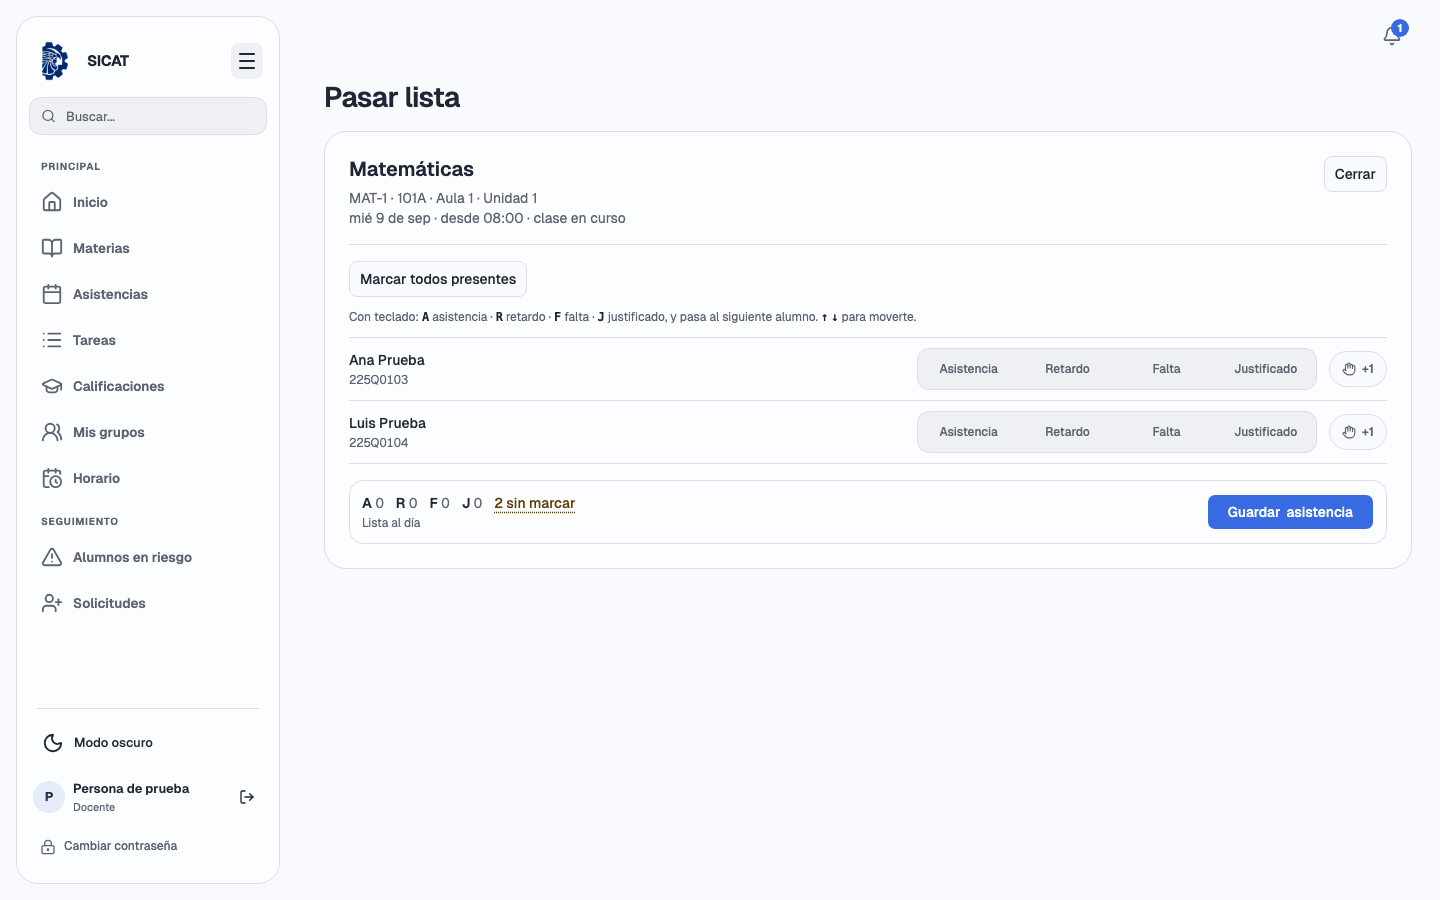
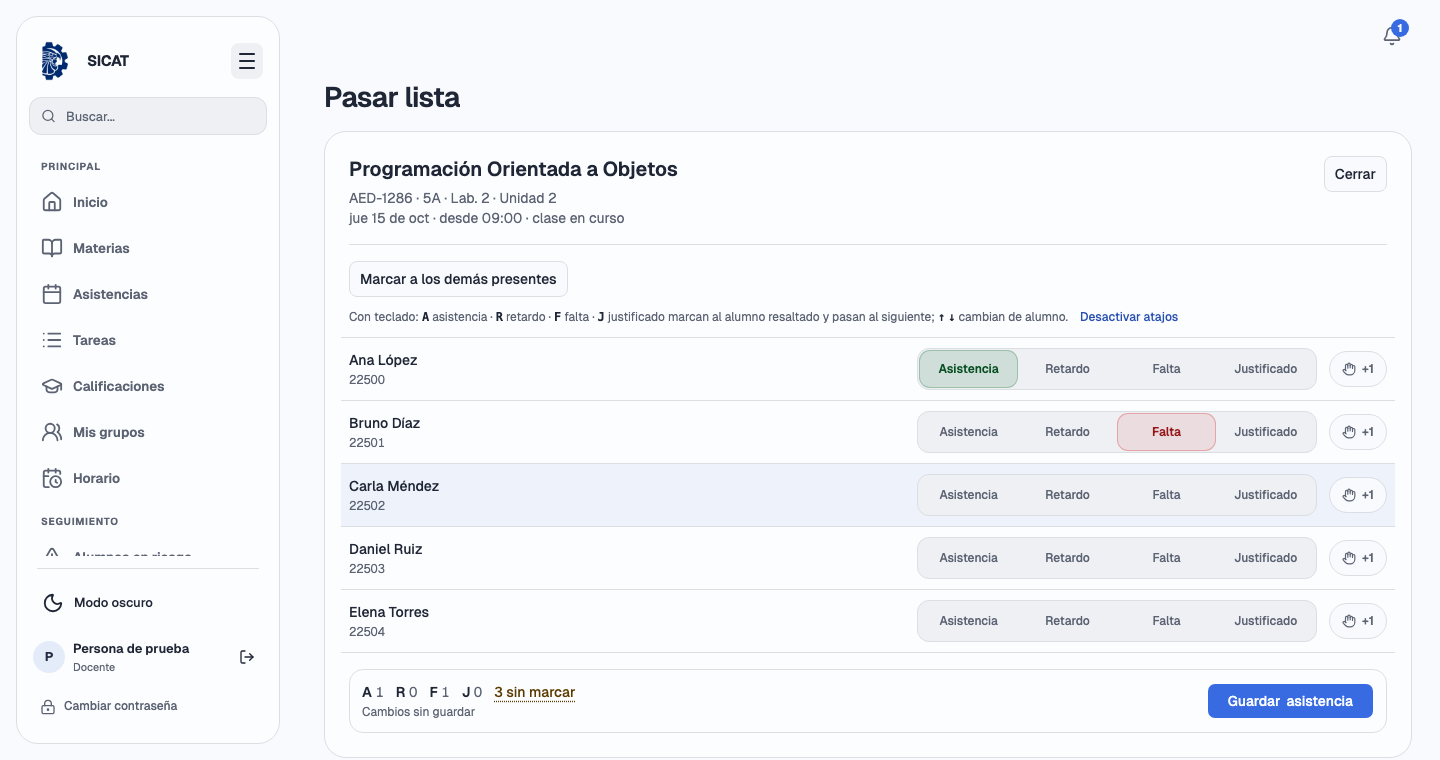
fix(pasar-lista): los atajos de teclado funcionan sin tener el foco en un botón
Los atajos A/R/F/J sólo respondían con el foco en un botón de estado: al abrir
la lista y teclear, o tras hacer clic en el nombre, no pasaba nada, y en Safari
(que no enfoca botones al hacer clic) nunca funcionaban.

Ahora siempre hay un alumno resaltado (al inicio, el primero sin marcar). Las
letras lo marcan y pasan al siguiente desde cualquier parte de la página, y
↑ ↓ cambian de alumno. Un clic en sus botones lo elige. No se disparan al
escribir en un campo ni con un diálogo o menú abierto, y se pueden desactivar
(WCAG 2.1.4); la preferencia se recuerda en el navegador.

diff --git a/frontend/src/pages/docente/components/AsistenciaSesionPanel.jsx b/frontend/src/pages/docente/components/AsistenciaSesionPanel.jsx
@@ -11,8 +11,20 @@ import { cn } from '@/lib/utils'
 import SexoBadge from '../../../components/SexoBadge'
 import { useAsistenciaStore } from '../../../store/asistenciaStore'
 
-// Atajos de teclado (A/R/F/J), activos sólo con el foco dentro de un alumno.
+// Atajos de teclado: actúan sobre el alumno resaltado, tenga o no el foco
+// (Safari no enfoca un botón al hacer clic). Se pueden apagar (WCAG 2.1.4).
 const TECLAS = { a: 'ASISTENCIA', r: 'RETARDO', f: 'FALTA', j: 'JUSTIFICADA' }
+const PREFERENCIA_ATAJOS = 'sicat:atajos-pase-lista'
+// Donde una letra es texto o pertenece a otra cosa, no es un atajo.
+const FUERA_DE_ATAJOS = 'input, textarea, select, [contenteditable="true"], [role="dialog"], [role="menu"]'
+
+function leerAtajos() {
+  try {
+    return localStorage.getItem(PREFERENCIA_ATAJOS) !== 'no'
+  } catch {
+    return true
+  }
+}
 
 const ESTADOS = [
   { valor: 'ASISTENCIA', etiqueta: 'Asistencia', letra: 'A', plural: ['asistencia', 'asistencias'], activo: 'bg-success/15 text-success-foreground ring-success/40' },
@@ -72,6 +84,9 @@ export default function AsistenciaSesionPanel({
   // Marcas que se intentaron guardar sin red y esperan en la cola del dispositivo.
   const [encolado, setEncolado] = useState(null)
   const filasRef = useRef([])
+  const [cursor, setCursor] = useState(null)
+  const [atajos, setAtajos] = useState(leerAtajos)
+  const teclaRef = useRef(null)
 
   const { sesion, alumnos, disponibles, registros, guardados, participacion, recuperado } = datos
 
@@ -218,25 +233,61 @@ export default function AsistenciaSesionPanel({
 
   const marcar = (alumnoId, estado) => actualizar((prev) => ({ registros: { ...prev.registros, [alumnoId]: estado } }))
 
-  const enfocarFila = (indice, columna = 0) => {
-    filasRef.current[indice]?.querySelectorAll('[data-estado]')[columna]?.focus()
+  // El alumno resaltado: el que se eligió, o el primero que falta marcar.
+  const actual = visibles.find((alumno) => alumno.alumnoId === cursor)
+    ?? visibles.find((alumno) => !registros[alumno.alumnoId])
+    ?? visibles[0]
+    ?? null
+
+  // Mueve el resaltado; si el foco ya estaba en la lista, lo lleva a la misma columna.
+  const moverA = (indice, columna, origen) => {
+    const destino = Math.max(0, Math.min(indice, visibles.length - 1))
+    const fila = filasRef.current[destino]
+    if (!visibles[destino]) return
+    setCursor(visibles[destino].alumnoId)
+    fila?.scrollIntoView({ block: 'nearest' })
+    if (origen?.closest?.('[data-lista-alumnos]')) fila?.querySelectorAll('[data-estado]')[columna]?.focus()
   }
 
-  const manejarTecla = (event, alumno, indice) => {
-    if (event.altKey || event.ctrlKey || event.metaKey) return
-    const estado = TECLAS[event.key.toLowerCase()]
-    if (estado) {
-      event.preventDefault()
-      marcar(alumno.alumnoId, estado)
-      enfocarFila(Math.min(indice + 1, visibles.length - 1), ESTADOS.findIndex((item) => item.valor === estado))
-      return
+  useEffect(() => {
+    teclaRef.current = (event) => {
+      if (event.defaultPrevented || event.altKey || event.ctrlKey || event.metaKey || !actual) return
+      const origen = event.target
+      if (origen.closest?.(FUERA_DE_ATAJOS) || document.querySelector('[aria-modal="true"]')) return
+      const indice = visibles.findIndex((alumno) => alumno.alumnoId === actual.alumnoId)
+      const estado = TECLAS[event.key.toLowerCase()]
+      if (estado) {
+        event.preventDefault()
+        marcar(actual.alumnoId, estado)
+        moverA(indice + 1, ESTADOS.findIndex((item) => item.valor === estado), origen)
+        return
+      }
+      // Las flechas sólo se toman en la lista o sin foco; en otro control conservan su uso.
+      const paso = { ArrowDown: 1, ArrowUp: -1 }[event.key]
+      if (paso && (origen === document.body || origen.closest?.('[data-lista-alumnos]'))) {
+        event.preventDefault()
+        const columna = Math.max(0, ESTADOS.findIndex((item) => item.valor === origen.dataset?.estado))
+        moverA(indice + paso, columna, origen)
+      }
     }
-    const paso = { ArrowDown: 1, ArrowUp: -1 }[event.key]
-    if (paso && event.target.dataset.estado) {
-      event.preventDefault()
-      const columna = ESTADOS.findIndex((item) => item.valor === event.target.dataset.estado)
-      enfocarFila(Math.max(0, Math.min(indice + paso, visibles.length - 1)), columna)
-    }
+  })
+
+  useEffect(() => {
+    if (!listo || !atajos) return undefined
+    const alTeclear = (event) => teclaRef.current?.(event)
+    document.addEventListener('keydown', alTeclear)
+    return () => document.removeEventListener('keydown', alTeclear)
+  }, [listo, atajos])
+
+  const alternarAtajos = () => {
+    setAtajos((activos) => {
+      try {
+        localStorage.setItem(PREFERENCIA_ATAJOS, activos ? 'no' : 'si')
+      } catch {
+        // Sin almacenamiento la preferencia dura lo que la pantalla.
+      }
+      return !activos
+    })
   }
 
   const marcarRestantesPresentes = () => actualizar((prev) => ({
@@ -472,9 +523,20 @@ export default function AsistenciaSesionPanel({
         )}
       </div>
 
-      <p className="mt-3 hidden text-xs text-muted-foreground [@media(pointer:fine)]:block">
-        Con teclado: <kbd className="font-semibold text-foreground">A</kbd> asistencia · <kbd className="font-semibold text-foreground">R</kbd> retardo · <kbd className="font-semibold text-foreground">F</kbd> falta · <kbd className="font-semibold text-foreground">J</kbd> justificado, y pasa al siguiente alumno. <kbd className="font-semibold text-foreground">↑</kbd> <kbd className="font-semibold text-foreground">↓</kbd> para moverte.
-      </p>
+      {/* Sólo con mouse o trackpad: en el teléfono no hay teclado físico que explicar. */}
+      <div className="mt-3 hidden flex-wrap items-center gap-x-3 gap-y-1 text-xs text-muted-foreground [@media(pointer:fine)]:flex">
+        {atajos ? (
+          <p>
+            Con teclado: <kbd className="font-semibold text-foreground">A</kbd> asistencia · <kbd className="font-semibold text-foreground">R</kbd> retardo · <kbd className="font-semibold text-foreground">F</kbd> falta · <kbd className="font-semibold text-foreground">J</kbd> justificado marcan al alumno resaltado y pasan al siguiente; <kbd className="font-semibold text-foreground">↑</kbd> <kbd className="font-semibold text-foreground">↓</kbd> cambian de alumno.
+          </p>
+        ) : (
+          <p>Atajos de teclado desactivados.</p>
+        )}
+        <button type="button" aria-pressed={atajos} onClick={alternarAtajos}
+          className="rounded-md font-medium text-primary-ink underline-offset-4 hover:underline focus-visible:outline-none focus-visible:ring-3 focus-visible:ring-ring/50">
+          {atajos ? 'Desactivar atajos' : 'Activar atajos'}
+        </button>
+      </div>
 
       {visibles.length === 0 ? (
         <p className="mt-4 rounded-[var(--radius-item)] border border-dashed border-border px-4 py-8 text-center text-sm text-muted-foreground">
@@ -483,12 +545,16 @@ export default function AsistenciaSesionPanel({
             : soloSinMarcar && !needle ? 'Ya marcaste a todos.' : 'Ningún alumno coincide con la búsqueda.'}
         </p>
       ) : (
-        <ul className="@container mt-3 divide-y divide-border border-y border-border">
+        <ul data-lista-alumnos className="@container -mx-2 mt-3 divide-y divide-border border-y border-border">
           {visibles.map((alumno, indice) => {
             const puntos = participacion[alumno.alumnoId] ?? 0
+            const resaltado = atajos && alumno.alumnoId === actual?.alumnoId
+            const elegir = () => setCursor(alumno.alumnoId)
             return (
               <li key={alumno.alumnoId} ref={(el) => { filasRef.current[indice] = el }}
-                className="grid items-center gap-x-3 gap-y-1.5 py-2.5 [grid-template-areas:'nombre_participa'_'estado_estado'] grid-cols-[minmax(0,1fr)_auto] @[40rem]:grid-cols-[minmax(0,1fr)_auto_auto] @[40rem]:[grid-template-areas:'nombre_estado_participa']">
+                aria-current={resaltado ? 'true' : undefined}
+                className={cn('grid scroll-mb-36 scroll-mt-4 items-center gap-x-3 gap-y-1.5 px-2 py-2.5 transition-colors duration-150', resaltado && '[@media(pointer:fine)]:bg-accent/60',
+                  "[grid-template-areas:'nombre_participa'_'estado_estado'] grid-cols-[minmax(0,1fr)_auto] @[40rem]:grid-cols-[minmax(0,1fr)_auto_auto] @[40rem]:[grid-template-areas:'nombre_estado_participa']")}>
                 <div className="min-w-0 [grid-area:nombre]">
                   <p className="flex items-start gap-2 text-sm font-medium text-foreground">
                     <SexoBadge sexo={alumno.sexo} />
@@ -506,9 +572,9 @@ export default function AsistenciaSesionPanel({
                     const marcado = registros[alumno.alumnoId] === valor
                     return (
                       <button key={valor} type="button" aria-pressed={marcado} data-estado={valor}
-                        aria-keyshortcuts={valor === 'ASISTENCIA' ? 'A' : valor === 'RETARDO' ? 'R' : valor === 'FALTA' ? 'F' : 'J'}
-                        onClick={() => setEstado(alumno.alumnoId, valor)}
-                        onKeyDown={(event) => manejarTecla(event, alumno, indice)}
+                        aria-keyshortcuts={atajos ? Object.keys(TECLAS).find((tecla) => TECLAS[tecla] === valor).toUpperCase() : undefined}
+                        onClick={() => { elegir(); setEstado(alumno.alumnoId, valor) }}
+                        onFocus={elegir}
                         className={cn(
                           'min-h-9 min-w-0 rounded-[10px] px-1 text-xs font-medium transition-colors duration-150 focus-visible:outline-none focus-visible:ring-3 focus-visible:ring-ring/50',
                           marcado ? cn('font-semibold ring-1', activo) : 'text-muted-foreground hover:bg-card hover:text-foreground',
@@ -529,8 +595,8 @@ export default function AsistenciaSesionPanel({
                   )}
                   <Button variant="outline" type="button"
                     aria-label={`Sumar participación a ${alumno.nombre} (lleva ${puntos})`}
-                    onClick={() => cambiarParticipacion(alumno, 1)}
-                    onKeyDown={(event) => manejarTecla(event, alumno, indice)}
+                    onClick={() => { elegir(); cambiarParticipacion(alumno, 1) }}
+                    onFocus={elegir}
                     className={cn('h-8 gap-1.5 rounded-full px-3 text-xs font-semibold', puntos > 0 ? 'border-primary/40 bg-primary/10 text-primary-ink' : 'text-muted-foreground')}>
                     <Hand className="size-3.5" aria-hidden="true" />
                     {puntos > 0 ? `${puntos} ${puntos === 1 ? 'pt' : 'pts'}` : '+1'}

diff --git a/frontend/tests/e2e/pasar-lista.spec.js b/frontend/tests/e2e/pasar-lista.spec.js
@@ -96,7 +96,32 @@ test('sin señal la lista queda en cola y se envía sola al volver la conexión'
   expect(await page.evaluate(() => localStorage.getItem('sicat:pase-lista-cola'))).toBeNull()
 })
 
-test('con teclado: A/R/F/J marcan y pasan al siguiente; las flechas se mueven entre alumnos', async ({ page }) => {
+test('con teclado se marca sin tocar nada: el alumno resaltado avanza solo', async ({ page }) => {
+  await abrir(page, { n: 3 })
+  const fila = (nombre) => page.getByRole('listitem').filter({ hasText: nombre })
+  // Recién abierta, sin foco en la lista: el primero sin marcar está resaltado.
+  await expect(fila('Ana López')).toHaveAttribute('aria-current', 'true')
+  await page.keyboard.press('a')
+  await page.keyboard.press('F')
+  await expect(estado(page, 'Ana López', 'Asistencia')).toHaveAttribute('aria-pressed', 'true')
+  await expect(estado(page, 'Bruno Díaz', 'Falta')).toHaveAttribute('aria-pressed', 'true')
+  await expect(fila('Carla Méndez')).toHaveAttribute('aria-current', 'true')
+
+  // ↑ regresa sin foco en un control; corregir a Bruno lo deja en Retardo.
+  await page.keyboard.press('ArrowUp')
+  await expect(fila('Bruno Díaz')).toHaveAttribute('aria-current', 'true')
+  await page.keyboard.press('r')
+  await expect(estado(page, 'Bruno Díaz', 'Retardo')).toHaveAttribute('aria-pressed', 'true')
+
+  // Un clic (aunque el navegador no enfoque el botón, como Safari) elige al alumno.
+  await page.getByText('Ana López').click()
+  await estado(page, 'Ana López', 'Justificado').click()
+  await expect(fila('Ana López')).toHaveAttribute('aria-current', 'true')
+  await page.keyboard.press('j')
+  await expect(estado(page, 'Ana López', 'Justificado')).toHaveAttribute('aria-pressed', 'true')
+})
+
+test('con el foco en la lista, las teclas llevan el foco al siguiente alumno', async ({ page }) => {
   await abrir(page, { n: 3 })
   await estado(page, 'Ana López', 'Asistencia').focus()
   await page.keyboard.press('f')
@@ -104,13 +129,28 @@ test('con teclado: A/R/F/J marcan y pasan al siguiente; las flechas se mueven en
   await expect(estado(page, 'Bruno Díaz', 'Falta')).toBeFocused()
   await page.keyboard.press('ArrowDown')
   await expect(estado(page, 'Carla Méndez', 'Falta')).toBeFocused()
-  await page.keyboard.press('r')
-  await expect(estado(page, 'Carla Méndez', 'Retardo')).toHaveAttribute('aria-pressed', 'true')
-  await page.keyboard.press('ArrowUp')
-  await expect(estado(page, 'Bruno Díaz', 'Retardo')).toBeFocused()
+})
+
+test('los atajos no se disparan al escribir, con un diálogo abierto ni desactivados', async ({ page }) => {
+  await abrir(page)
+  await page.getByRole('searchbox', { name: /Buscar alumno/ }).fill('far')
+  await page.keyboard.press('Escape')
+  await expect(page.getByRole('group', { name: /^Estado de / }).getByRole('button', { pressed: true })).toHaveCount(0)
+  await page.getByRole('searchbox', { name: /Buscar alumno/ }).fill('')
+
+  await page.getByRole('button', { name: 'Guardar asistencia' }).click()
+  await expect(page.getByRole('dialog')).toBeVisible()
   await page.keyboard.press('a')
-  await expect(estado(page, 'Bruno Díaz', 'Asistencia')).toHaveAttribute('aria-pressed', 'true')
-  await expect(page.getByText('Todos marcados')).toBeVisible()
+  await page.getByRole('dialog').getByRole('button', { name: 'Cancelar' }).click()
+  await expect(estado(page, 'Ana López', 'Asistencia')).toHaveAttribute('aria-pressed', 'false')
+
+  await page.getByRole('button', { name: 'Desactivar atajos' }).click()
+  await page.locator('body').click({ position: { x: 5, y: 5 } })
+  await page.keyboard.press('a')
+  await expect(estado(page, 'Ana López', 'Asistencia')).toHaveAttribute('aria-pressed', 'false')
+  // La preferencia se recuerda en este navegador.
+  await page.reload()
+  await expect(page.getByRole('button', { name: 'Activar atajos' })).toBeVisible()
 })
 
 test('guardar con alumnos sin marcar pide confirmar las faltas', async ({ page }) => {
